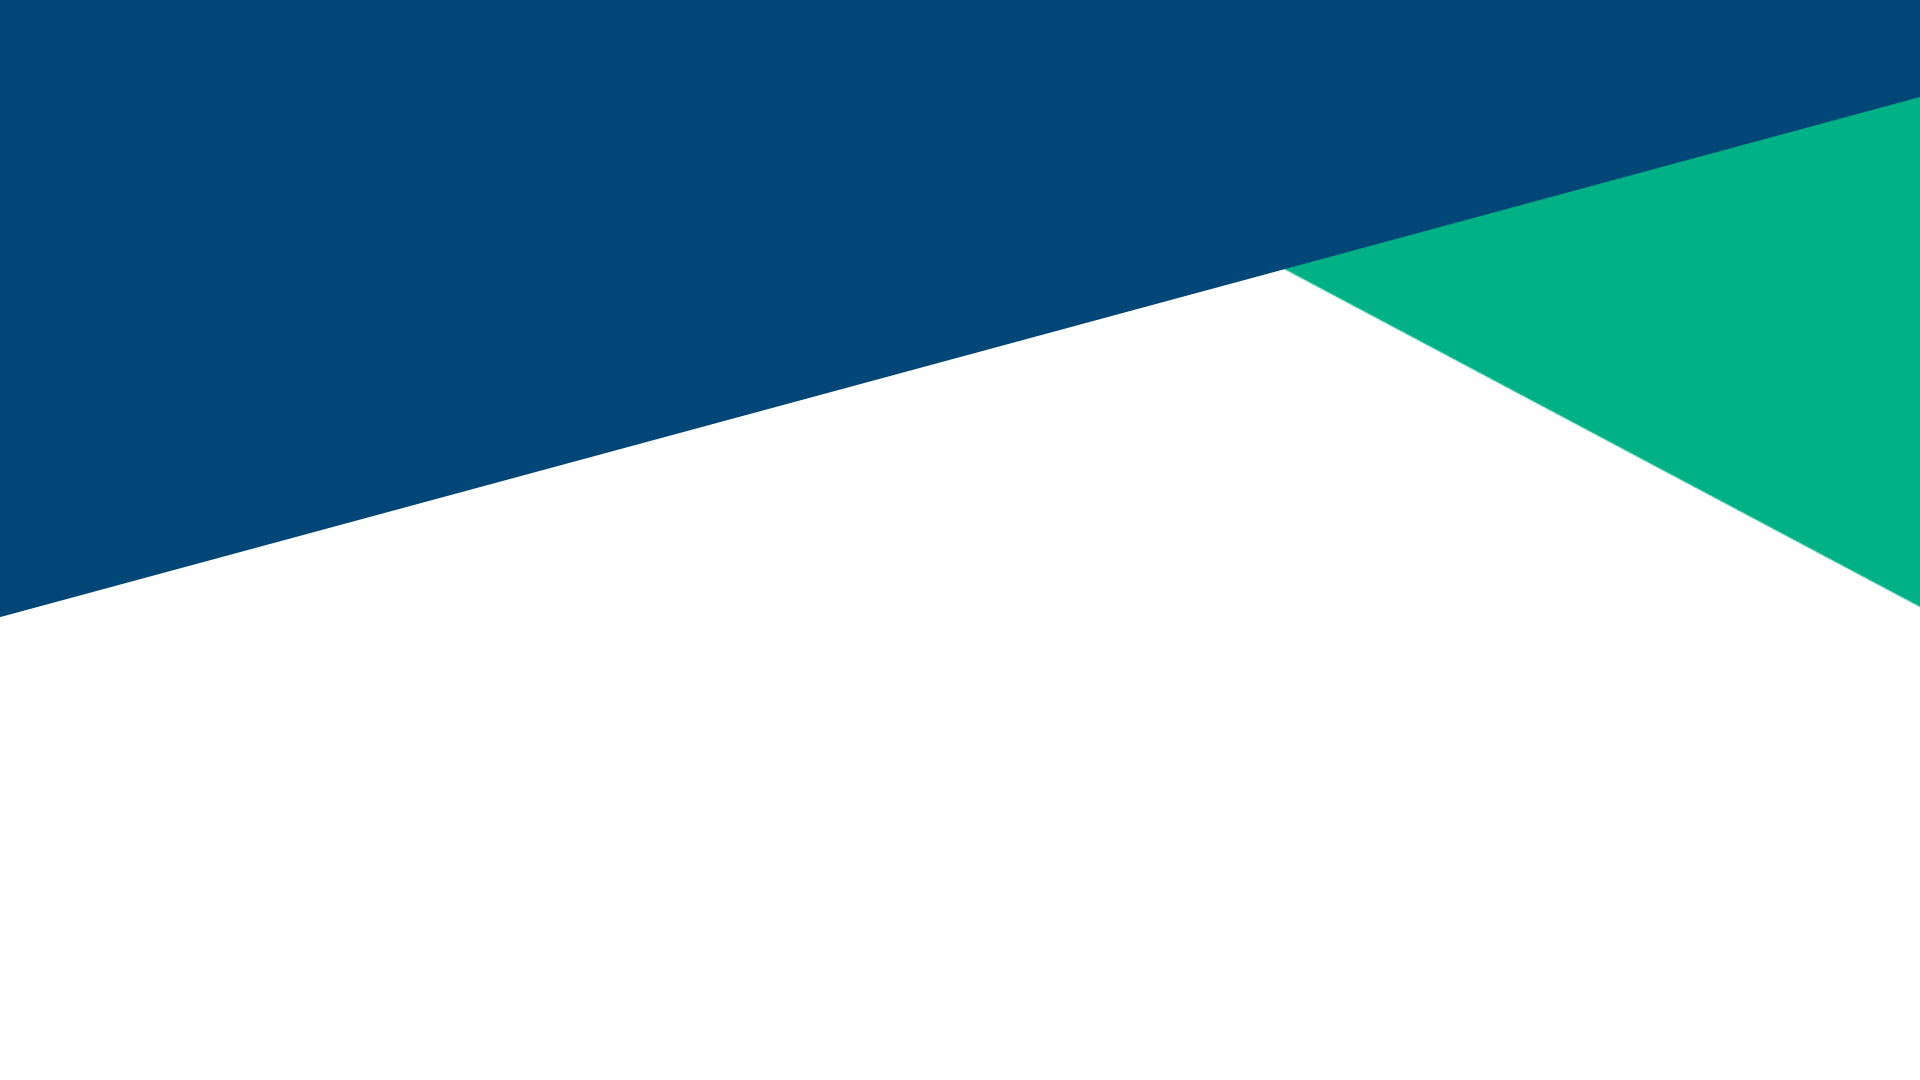
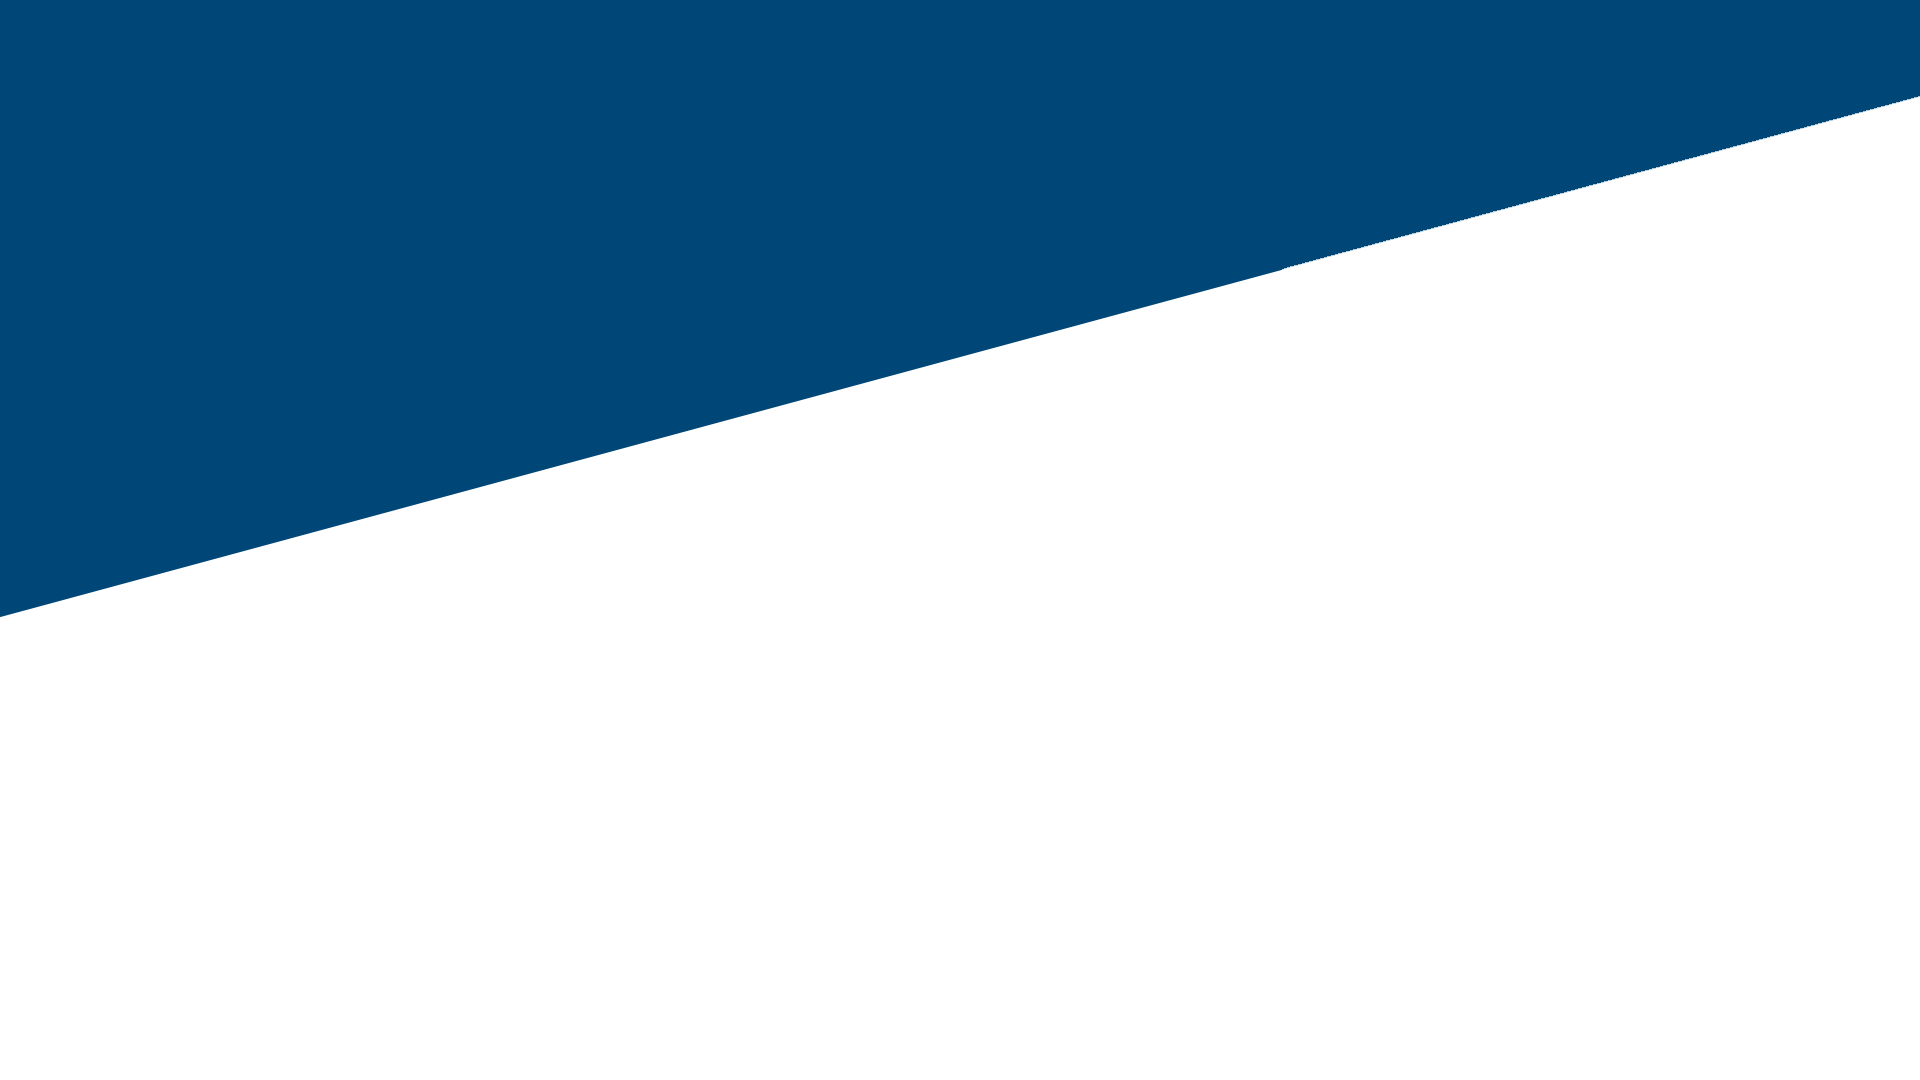
Changes

Changed region(s): [[0.6562, 0.0917, 1.0, 0.55]]

diff --git a/resources/styling/stylesheet.css b/resources/styling/stylesheet.css
@@ -1,5 +1,5 @@
 body {
-	background-color: #fff;
+	background-color: #00b185;
 	font-family: 'merriweather_sanslight', Arial, sans-serif;
   /* Location of the image */
   background-image: url(bg.png);
